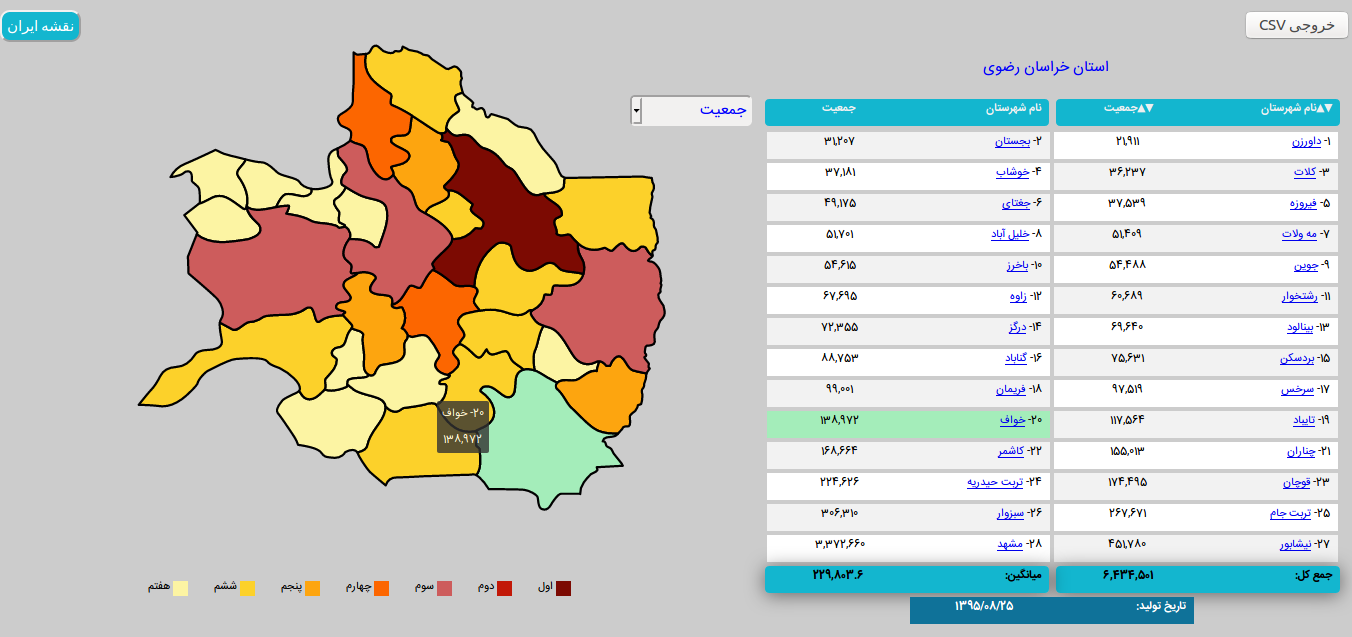
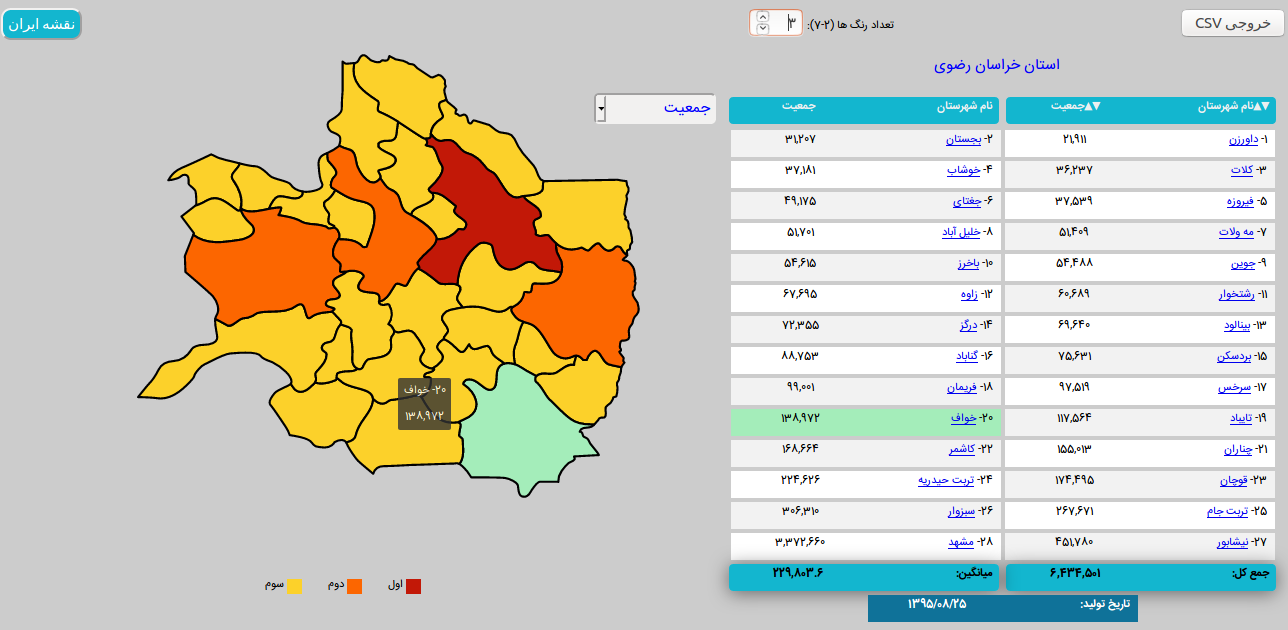
minor changes

diff --git a/js/DropdownSel.js b/js/DropdownSel.js
@@ -1,7 +1,64 @@
 $(document).ready(function(){
     emulSelection();
 
-    function decide_legend() { // Which one should be displayed
+    $("#IranMap  #NumColors").change(function(){
+		decide_legend();
+		load_JSON(sessionStorage.getItem("fileName"));
+    });
+
+		
+    $('#IranMap #selection_dropdowns').change(function() {  // Change on dropdown menu
+
+			  var selectedItemQuantity = $("#Quantity select").children("option:selected").val();
+			  var selectedItemQuantityType = $("#Quantity_Type select").children("option:selected").val();
+			  var selectedItemYear = $("#Year select").children("option:selected").val();
+			  var selectedItemMonth = $("#Month select").children("option:selected").val();
+			  
+			  var pathPrefix = "./JSON_Files/";
+			  var fileName;
+			  var mapType;
+
+			  if (window.sessionStorage) { // save the selected values into session storage
+			   sessionStorage.setItem("dropsel_quantity", selectedItemQuantity);
+			   sessionStorage.setItem("dropsel_quantity_type", selectedItemQuantityType);
+			   sessionStorage.setItem("dropsel_year", selectedItemYear);
+			   sessionStorage.setItem("dropsel_month", selectedItemMonth);	
+                           mapType = sessionStorage.getItem("map_type");			   
+			  }
+					
+			  switch(selectedItemQuantity) {
+				case "popu":
+					fileName = pathPrefix + mapType + "_" + selectedItemQuantity + ".json";
+					$("#Quantity_Type").hide();		   
+					$("#Year").hide();
+					$("#Month").hide();					
+					break;
+					  
+				case "AMNT":
+				case "CNT":
+				case "TERM":
+					fileName = pathPrefix + selectedItemYear + "_" + selectedItemMonth + "_" + mapType + "_" + selectedItemQuantity + "_" + selectedItemQuantityType + ".json";
+					$("#Quantity_Type").show();
+					$("#Year").show();
+					$("#Month").show();
+					break;
+					
+				case "amount": 
+				case "trans":
+				case "term":
+					fileName = pathPrefix + mapType + "_" + selectedItemQuantity + "_" + selectedItemQuantityType + ".json";			  
+					$("#Quantity_Type").show();
+					$("#Year").hide();
+					$("#Month").hide();
+			  }
+			  
+			  sessionStorage.setItem("fileName", fileName);				  
+			  load_JSON(fileName); 		
+    });	
+
+});
+
+function decide_legend() { // Which one should be displayed
 		$('#IranMap #legend li').hide();  // hide legend
    	        var NumColors = $("#IranMap  #NumColors").val();
 
@@ -242,63 +299,8 @@ $(document).ready(function(){
 
 				break;				
 			}		
-	}
+}
 	
-	$("#IranMap  #NumColors").change(function(){
-		decide_legend();
-		load_JSON(sessionStorage.getItem("fileName"));
-	});
-
-		
-	$('#IranMap #selection_dropdowns').change(function() {  // Change on dropdown menu
-			  var selectedItemQuantity = $("#Quantity select").children("option:selected").val();
-			  var selectedItemQuantityType = $("#Quantity_Type select").children("option:selected").val();
-			  var selectedItemYear = $("#Year select").children("option:selected").val();
-			  var selectedItemMonth = $("#Month select").children("option:selected").val();
-			  
-			  var pathPrefix = "./JSON_Files/";
-			  var fileName;
-			  var mapType;
-
-			  if (window.sessionStorage) { // save the selected values into session storage
-			   sessionStorage.setItem("dropsel_quantity", selectedItemQuantity);
-			   sessionStorage.setItem("dropsel_quantity_type", selectedItemQuantityType);
-			   sessionStorage.setItem("dropsel_year", selectedItemYear);
-			   sessionStorage.setItem("dropsel_month", selectedItemMonth);	
-                           mapType = sessionStorage.getItem("map_type");			   
-			  }
-					
-			  switch(selectedItemQuantity) {
-				case "popu":
-					fileName = pathPrefix + mapType + "_" + selectedItemQuantity + ".json";
-					$("#Quantity_Type").hide();		   
-					$("#Year").hide();
-					$("#Month").hide();					
-					break;
-					  
-				case "AMNT":
-				case "CNT":
-				case "TERM":
-					fileName = pathPrefix + selectedItemYear + "_" + selectedItemMonth + "_" + mapType + "_" + selectedItemQuantity + "_" + selectedItemQuantityType + ".json";
-					$("#Quantity_Type").show();
-					$("#Year").show();
-					$("#Month").show();
-					break;
-					
-				case "amount": 
-				case "trans":
-				case "term":
-					fileName = pathPrefix + mapType + "_" + selectedItemQuantity + "_" + selectedItemQuantityType + ".json";			  
-					$("#Quantity_Type").show();
-					$("#Year").hide();
-					$("#Month").hide();
-			  }
-			  
-			  sessionStorage.setItem("fileName", fileName);				  
-			  load_JSON(fileName); 		
-		});	
-
-
 
 function emulSelection() {   // When refreshing the page or loading a new html, calling this function emulates selection of an option in dropdown menu	
 	       var selectedItemQuantity = sessionStorage.getItem("dropsel_quantity");
@@ -373,5 +375,3 @@ function emulSelection() {   // When refreshing the page or loading a new html, 
 		   sessionStorage.setItem("fileName", fileName);
 		   load_JSON(fileName);
 }
-
-});

diff --git a/js/load_x.js b/js/load_x.js
@@ -100,20 +100,20 @@ function load_JSON(fname_JSON) {
 							break;
 							
 							case "7":
-                    if(parseInt(val) > parseInt(AVG)*12/4)
-						$('#IranMap svg .' + className).css({fill:"#7C0A02"});  // BARN RED					
-					else if(parseInt(val) > parseInt(AVG)*8/4)
-						$('#IranMap svg .' + className).css({fill:"#C21807"});  // CHILI
-					else if(parseInt(val) > parseInt(AVG)*4/4)
-						$('#IranMap svg .' + className).css({fill:"#CD5C5C"});  // INDIAN RED
-					else if(parseInt(val) > parseInt(AVG)*3/4)
-						$('#IranMap svg .' + className).css({fill:"#FC6600"});  // ORANGE
-					else if(parseInt(val) > parseInt(AVG)*2/4)
-						$('#IranMap svg .' + className).css({fill:"#FDA50F"});  // FIRE
-					else if(parseInt(val) > parseInt(AVG)*1/4)
-						$('#IranMap svg .' + className).css({fill:"#FCD12A"});  // TUSCANY
-					else
-						$('#IranMap svg .' + className).css({fill:"#FCF4A3"});  // BANANA
+					    			if(parseInt(val) > parseInt(AVG)*12/4)
+									$('#IranMap svg .' + className).css({fill:"#7C0A02"});  // BARN RED					
+								else if(parseInt(val) > parseInt(AVG)*8/4)
+									$('#IranMap svg .' + className).css({fill:"#C21807"});  // CHILI
+								else if(parseInt(val) > parseInt(AVG)*4/4)
+									$('#IranMap svg .' + className).css({fill:"#CD5C5C"});  // INDIAN RED
+								else if(parseInt(val) > parseInt(AVG)*3/4)
+									$('#IranMap svg .' + className).css({fill:"#FC6600"});  // ORANGE
+								else if(parseInt(val) > parseInt(AVG)*2/4)
+									$('#IranMap svg .' + className).css({fill:"#FDA50F"});  // FIRE
+								else if(parseInt(val) > parseInt(AVG)*1/4)
+									$('#IranMap svg .' + className).css({fill:"#FCD12A"});  // TUSCANY
+								else
+									$('#IranMap svg .' + className).css({fill:"#FCF4A3"});  // BANANA
 							break;
 						}
 

diff --git a/Counties_in_Province/26-lorestan/lorestan_counties.html b/Counties_in_Province/26-lorestan/lorestan_counties.html
@@ -20,9 +20,13 @@
 
 				<div>
 				  <ul id="legend">
-				    <li><span id="leg_Above"></span> بیشتر از دو سوم میانگین</li>
-				    <li><span id="leg_Between"></span>مابین یک سوم و دو سوم میانگین</li>
-				    <li><span id="leg_Below"></span>کمتر از یک سوم میانگین</li>
+				    <li><span id="leg_1"></span>اول</li>
+				    <li><span id="leg_2"></span>دوم</li>
+				    <li><span id="leg_3"></span>سوم</li>
+				    <li><span id="leg_4"></span>چهارم</li>
+				    <li><span id="leg_5"></span>پنجم</li>
+				    <li><span id="leg_6"></span>ششم</li>
+				    <li><span id="leg_7"></span>هفتم</li>
 				  </ul>
 				</div>
             </div>
